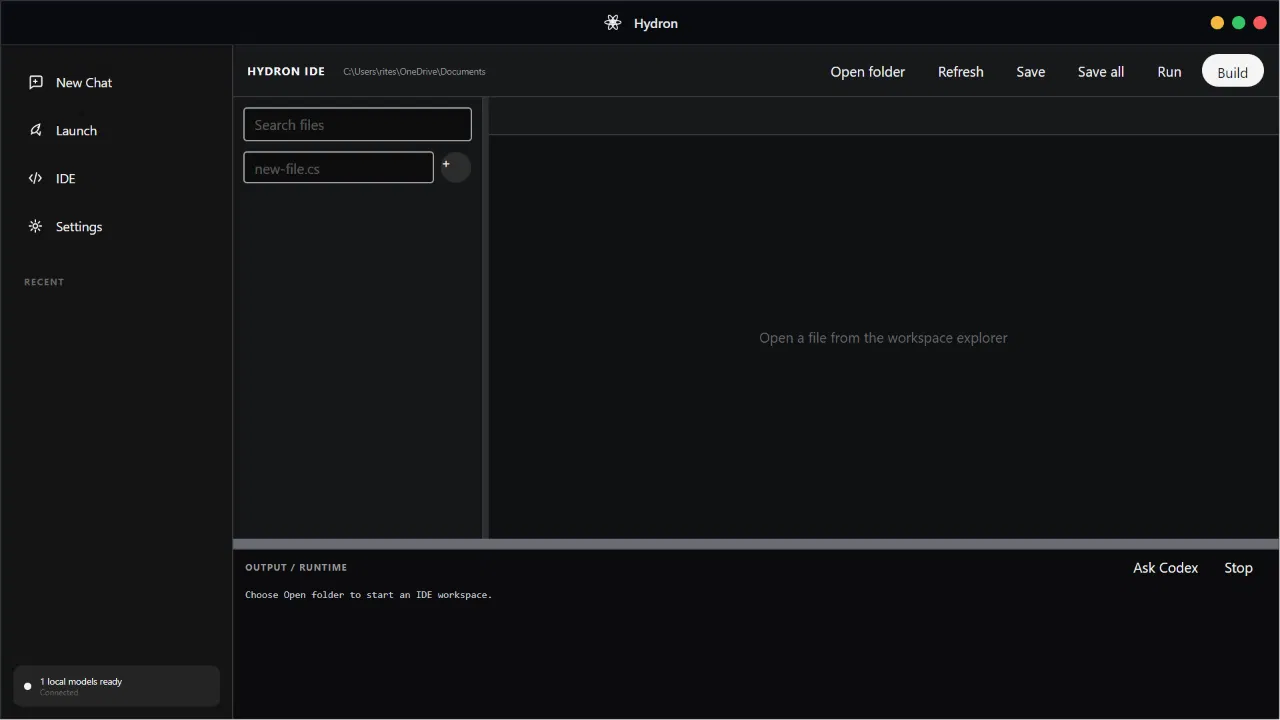
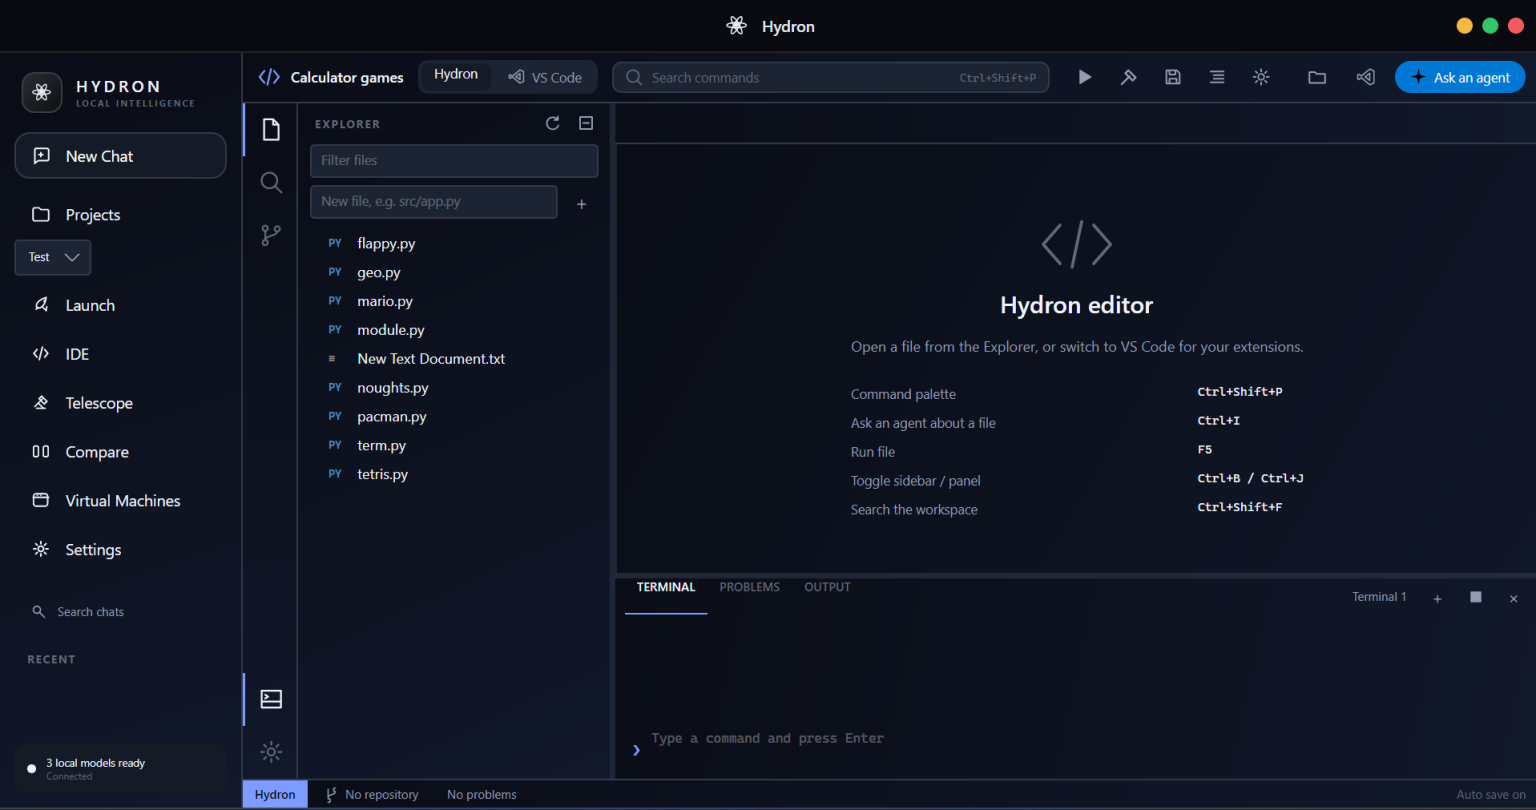
Update site for v0.8.1: download link, IDE and CLI screenshots
- Point download buttons at the v0.8.1 release installer and show
  v0.8.1 alpha in the footer
- New IDE screenshot; IDE feature list now covers the VS Code switch,
  Ctrl+I agent help, command palette, and terminal panels
- New v0.8.1 CLI screenshot with the working directory and hardware
  lines removed; mention /agent and /model
- Fit screenshots inside their frames instead of cropping, so wider
  captures are shown in full

Claude-Session: https://claude.ai/code/session_018qBfZMS91rYwB9GFuJ8y4J

diff --git a/features.html b/features.html
@@ -13,7 +13,7 @@
 <link rel="preconnect" href="https://fonts.googleapis.com">
 <link rel="preconnect" href="https://fonts.gstatic.com" crossorigin>
 <link href="https://fonts.googleapis.com/css2?family=Inter:wght@400;500;600&family=JetBrains+Mono:wght@400;500&display=swap" rel="stylesheet">
-<link rel="stylesheet" href="assets/site.css?v=9f74f8fb">
+<link rel="stylesheet" href="assets/site.css?v=b88aff19">
 </head>
 <body>
 <a class="skip-link" href="#main">Skip to content</a>
@@ -82,7 +82,7 @@
         <span class="eyebrow">Integrated IDE</span>
         <h3>Edit code and see the result.</h3>
         <p>Open the folder you choose and work beside the AI tools using it. Hydron calls the language toolchains already installed on your PC.</p>
-        <ul class="checklist"><li>Code editor and file explorer</li><li>Run and Build controls</li><li>Syntax highlighting and indentation</li><li>File search and resizable runtime output</li></ul>
+        <ul class="checklist"><li>Switch between the Hydron editor and VS Code</li><li>Ask an agent about the open file with Ctrl+I</li><li>Command palette, file explorer, and workspace search</li><li>Built-in terminal, problems, and output panels</li><li>Run with F5, plus Build and auto-save</li></ul>
       </div>
       <div class="frame"><img src="assets/hydron-ide.png" alt="Hydron integrated development environment" width="1280" height="720" loading="lazy"></div>
     </div>
@@ -102,7 +102,7 @@
         <p>Type <code>hydron</code> in any shell to start a coding agent that runs on a local model — greeted by Ion, Hydron's pixel-atom mascot. Ask for a change and the agent reads, edits, and runs tests, then shows you what changed.</p>
         <ul class="checklist"><li>Starts read-only; press Shift+Tab to change mode</li><li><code>/undo</code> reverts, Esc interrupts</li><li><code>/init</code> creates a HYDRON.md memory file for your project</li></ul>
       </div>
-      <div class="frame natural"><img src="assets/hydron-cli.png" alt="Hydron command-line agent welcome screen" width="1430" height="871" loading="lazy"></div>
+      <div class="frame natural"><img src="assets/hydron-cli.png" alt="Hydron command-line agent welcome screen" width="1870" height="832" loading="lazy"></div>
     </div>
   </div>
 </section>
@@ -199,9 +199,9 @@ for remaining in range(10, 0, -1):
       <nav class="footer-col" aria-label="Legal"><h5>Legal</h5><ul><li><a href="privacy.html">Privacy</a></li><li><a href="terms.html">Terms</a></li><li><a href="terms.html#contact">Contact</a></li></ul></nav>
       <nav class="footer-col" aria-label="Release"><h5>Release</h5><ul><li><a href="downloads/Hydron-Setup.exe">Windows download</a></li><li><span>macOS · planned</span></li><li><span>Linux · planned</span></li></ul></nav>
     </div>
-    <div class="footer-bottom"><span>© <span id="year">2026</span> Hydron</span><span>v0.6.0 alpha · Windows x64</span></div>
+    <div class="footer-bottom"><span>© <span id="year">2026</span> Hydron</span><span>v0.8.1 alpha · Windows x64</span></div>
   </div>
 </footer>
-<script src="assets/site.js?v=573a914a"></script>
+<script src="assets/site.js?v=6daf1478"></script>
 </body>
 </html>

diff --git a/index.html b/index.html
@@ -13,7 +13,7 @@
 <link rel="preconnect" href="https://fonts.googleapis.com">
 <link rel="preconnect" href="https://fonts.gstatic.com" crossorigin>
 <link href="https://fonts.googleapis.com/css2?family=Inter:wght@400;500;600&family=JetBrains+Mono:wght@400;500&display=swap" rel="stylesheet">
-<link rel="stylesheet" href="assets/site.css?v=9f74f8fb">
+<link rel="stylesheet" href="assets/site.css?v=b88aff19">
 </head>
 <body>
 <a class="skip-link" href="#main">Skip to content</a>
@@ -92,7 +92,7 @@
         <span class="eyebrow">Command line</span>
         <h3>Prefer the terminal? So does Hydron.</h3>
         <p>Run <code>hydron</code> in any shell for a full agent in your terminal. It starts read-only, so it can look but not change files until you switch modes, and <code>/undo</code> reverts any edit.</p>
-        <ul class="checklist"><li><code>@file</code> attaches files, <code>!</code> runs shell commands, <code>#</code> saves notes to memory</li><li>34 built-in slash commands, plus your own</li><li>Manage models with simple commands:</li></ul>
+        <ul class="checklist"><li><code>@file</code> attaches files, <code>!</code> runs shell commands, <code>#</code> saves notes to memory</li><li><code>/agent</code> switches agent and model, <code>/model</code> picks a local one</li><li>34 built-in slash commands, plus your own</li><li>Manage models with simple commands:</li></ul>
         <div class="chips" style="margin-top:1.5rem">
           <button class="chip active" data-command="hydron pull gemma3:4b">Install Gemma</button>
           <button class="chip" data-command="hydron run phi4-mini:3.8b">Run Phi</button>
@@ -101,7 +101,7 @@
         </div>
         <div class="cmd"><code id="cmd-output">hydron pull gemma3:4b</code><button class="copy-btn" data-copy="cmd-output">Copy</button></div>
       </div>
-      <div class="frame natural"><img src="assets/hydron-cli.png" alt="Hydron command-line agent welcome screen showing model, read-only mode, and tips" width="1430" height="871" loading="lazy"></div>
+      <div class="frame natural"><img src="assets/hydron-cli.png" alt="Hydron command-line agent welcome screen showing model, read-only mode, and tips" width="1870" height="832" loading="lazy"></div>
     </div>
   </div>
 </section>
@@ -156,9 +156,9 @@
       <nav class="footer-col" aria-label="Legal"><h5>Legal</h5><ul><li><a href="privacy.html">Privacy</a></li><li><a href="terms.html">Terms</a></li><li><a href="terms.html#contact">Contact</a></li></ul></nav>
       <nav class="footer-col" aria-label="Release"><h5>Release</h5><ul><li><a href="downloads/Hydron-Setup.exe">Windows download</a></li><li><span>macOS · planned</span></li><li><span>Linux · planned</span></li></ul></nav>
     </div>
-    <div class="footer-bottom"><span>© <span id="year">2026</span> Hydron</span><span>v0.6.0 alpha · Windows x64</span></div>
+    <div class="footer-bottom"><span>© <span id="year">2026</span> Hydron</span><span>v0.8.1 alpha · Windows x64</span></div>
   </div>
 </footer>
-<script src="assets/site.js?v=573a914a"></script>
+<script src="assets/site.js?v=6daf1478"></script>
 </body>
 </html>

diff --git a/install.html b/install.html
@@ -13,7 +13,7 @@
 <link rel="preconnect" href="https://fonts.googleapis.com">
 <link rel="preconnect" href="https://fonts.gstatic.com" crossorigin>
 <link href="https://fonts.googleapis.com/css2?family=Inter:wght@400;500;600&family=JetBrains+Mono:wght@400;500&display=swap" rel="stylesheet">
-<link rel="stylesheet" href="assets/site.css?v=9f74f8fb">
+<link rel="stylesheet" href="assets/site.css?v=b88aff19">
 </head>
 <body>
 <a class="skip-link" href="#main">Skip to content</a>
@@ -130,9 +130,9 @@
       <nav class="footer-col" aria-label="Legal"><h5>Legal</h5><ul><li><a href="privacy.html">Privacy</a></li><li><a href="terms.html">Terms</a></li><li><a href="terms.html#contact">Contact</a></li></ul></nav>
       <nav class="footer-col" aria-label="Release"><h5>Release</h5><ul><li><a href="downloads/Hydron-Setup.exe">Windows download</a></li><li><span>macOS · planned</span></li><li><span>Linux · planned</span></li></ul></nav>
     </div>
-    <div class="footer-bottom"><span>© <span id="year">2026</span> Hydron</span><span>v0.6.0 alpha · Windows x64</span></div>
+    <div class="footer-bottom"><span>© <span id="year">2026</span> Hydron</span><span>v0.8.1 alpha · Windows x64</span></div>
   </div>
 </footer>
-<script src="assets/site.js?v=573a914a"></script>
+<script src="assets/site.js?v=6daf1478"></script>
 </body>
 </html>

diff --git a/privacy.html b/privacy.html
@@ -13,7 +13,7 @@
 <link rel="preconnect" href="https://fonts.googleapis.com">
 <link rel="preconnect" href="https://fonts.gstatic.com" crossorigin>
 <link href="https://fonts.googleapis.com/css2?family=Inter:wght@400;500;600&family=JetBrains+Mono:wght@400;500&display=swap" rel="stylesheet">
-<link rel="stylesheet" href="assets/site.css?v=9f74f8fb">
+<link rel="stylesheet" href="assets/site.css?v=b88aff19">
 </head>
 <body>
 <a class="skip-link" href="#main">Skip to content</a>
@@ -71,9 +71,9 @@
       <nav class="footer-col" aria-label="Legal"><h5>Legal</h5><ul><li><a href="privacy.html">Privacy</a></li><li><a href="terms.html">Terms</a></li><li><a href="terms.html#contact">Contact</a></li></ul></nav>
       <nav class="footer-col" aria-label="Release"><h5>Release</h5><ul><li><a href="downloads/Hydron-Setup.exe">Windows download</a></li><li><span>macOS · planned</span></li><li><span>Linux · planned</span></li></ul></nav>
     </div>
-    <div class="footer-bottom"><span>© <span id="year">2026</span> Hydron</span><span>v0.6.0 alpha · Windows x64</span></div>
+    <div class="footer-bottom"><span>© <span id="year">2026</span> Hydron</span><span>v0.8.1 alpha · Windows x64</span></div>
   </div>
 </footer>
-<script src="assets/site.js?v=573a914a"></script>
+<script src="assets/site.js?v=6daf1478"></script>
 </body>
 </html>

diff --git a/terms.html b/terms.html
@@ -13,7 +13,7 @@
 <link rel="preconnect" href="https://fonts.googleapis.com">
 <link rel="preconnect" href="https://fonts.gstatic.com" crossorigin>
 <link href="https://fonts.googleapis.com/css2?family=Inter:wght@400;500;600&family=JetBrains+Mono:wght@400;500&display=swap" rel="stylesheet">
-<link rel="stylesheet" href="assets/site.css?v=9f74f8fb">
+<link rel="stylesheet" href="assets/site.css?v=b88aff19">
 </head>
 <body>
 <a class="skip-link" href="#main">Skip to content</a>
@@ -72,9 +72,9 @@
       <nav class="footer-col" aria-label="Legal"><h5>Legal</h5><ul><li><a href="privacy.html">Privacy</a></li><li><a href="terms.html">Terms</a></li><li><a href="terms.html#contact">Contact</a></li></ul></nav>
       <nav class="footer-col" aria-label="Release"><h5>Release</h5><ul><li><a href="downloads/Hydron-Setup.exe">Windows download</a></li><li><span>macOS · planned</span></li><li><span>Linux · planned</span></li></ul></nav>
     </div>
-    <div class="footer-bottom"><span>© <span id="year">2026</span> Hydron</span><span>v0.6.0 alpha · Windows x64</span></div>
+    <div class="footer-bottom"><span>© <span id="year">2026</span> Hydron</span><span>v0.8.1 alpha · Windows x64</span></div>
   </div>
 </footer>
-<script src="assets/site.js?v=573a914a"></script>
+<script src="assets/site.js?v=6daf1478"></script>
 </body>
 </html>

diff --git a/assets/site.css b/assets/site.css
@@ -168,7 +168,7 @@ code{ font-family:var(--font-mono); font-size:.88em; background:var(--bg-muted);
 /* ---------- Product showcase ---------- */
 .showcase{ padding-bottom:clamp(3rem, 6vw, 5rem); }
 .frame{ background:var(--dark); border:1px solid var(--frame-edge); border-radius:var(--r-lg); padding:clamp(6px, 1vw, 10px); box-shadow:0 1px 2px rgba(0,0,0,.06), 0 30px 80px -30px var(--shadow); }
-.frame img{ width:100%; height:auto; aspect-ratio:16/9; object-fit:cover; border-radius:calc(var(--r-lg) - 8px); transition:opacity .2s ease; }
+.frame img{ width:100%; height:auto; aspect-ratio:16/9; object-fit:contain; background:var(--dark); border-radius:calc(var(--r-lg) - 8px); transition:opacity .2s ease; }
 .frame.natural img{ aspect-ratio:auto; object-fit:contain; }
 .tabs{ display:inline-flex; gap:.25rem; padding:.3rem; margin-top:1.5rem; background:var(--bg-muted); border-radius:var(--r-pill); max-width:100%; overflow-x:auto; }
 .tab{ border:0; background:transparent; color:var(--ink-2); padding:.55rem 1.1rem; border-radius:var(--r-pill); font-size:.88rem; font-weight:500; white-space:nowrap; transition:background .15s, color .15s; }

diff --git a/assets/site.js b/assets/site.js
@@ -5,7 +5,7 @@
   var reducedMotion = window.matchMedia('(prefers-reduced-motion: reduce)').matches;
 
   /* Official Hydron release download. */
-  var DOWNLOAD = 'https://github.com/hydronai/hydron/releases/download/v0.6.0-alpha/Hydron-Setup-0.6.0-alpha-win-x64.exe';
+  var DOWNLOAD = 'https://github.com/hydronai/hydron/releases/download/v0.8.1/Hydron-Setup-0.8.1-alpha-win-x64.exe';
   document.querySelectorAll('a[href="downloads/Hydron-Setup.exe"], .js-download').forEach(function(link){ link.href = DOWNLOAD; });
 
   /* Navigation: border on scroll, mobile toggle. */
